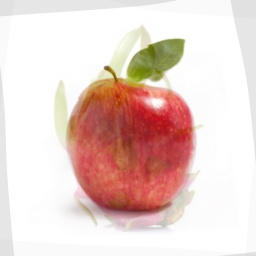
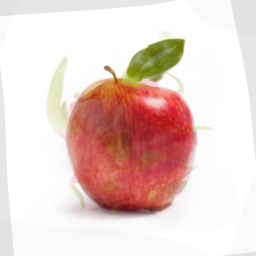
refactoring lines

diff --git a/Morph.py b/Morph.py
@@ -23,9 +23,9 @@ class Morph:
         self.dest_image= Image(img2, d_l)
 
         self.resize()
-        #self.src_image.draw_lines()
-        #self.dest_image.draw_lines()
-        self.morph()
+        self.src_image.draw_lines()
+        self.dest_image.draw_lines()
+        #self.morph()
 
     def process_input_file(self):
         src_lines= []
@@ -65,21 +65,6 @@ class Morph:
             plt.imsave("results/image_step_" + str(i) + ".jpg", im_t)
             self.t+=step
 
-
-        '''
-        plt.axis('off')
-        fig, xs = plt.subplots(1, 3)
-        xs[0].imshow(im1, cmap="gray")
-        xs[0].set_title("Warping source")
-        xs[0].axis('off')
-        xs[1].imshow(im2, cmap="gray")
-        xs[1].set_title("Warping dest")
-        xs[1].axis('off')
-        xs[2].imshow(im_t, cmap="gray")
-        xs[2].set_title("Blending")
-        xs[2].axis('off')
-        plt.show()
-        '''
 
     def warp(self, src_image, dest_image, t):
         t_image= np.zeros_like(src_image.image)

diff --git a/Image.py b/Image.py
@@ -18,6 +18,7 @@ class Image:
         :return: draws reference lines on
         top of the image
         '''
+
         for line in self.lines:
             red = self.image[:, :, 0]
             green = self.image[:, :, 1]
@@ -26,6 +27,7 @@ class Image:
             red[rr,cc]=0
             green[rr,cc]=0
             blue[rr,cc]=255
+        self.image=resize(self.image, (256, 256), anti_aliasing=True)
 
     def resize(self, dim):
         self.image= resize(self.image, (dim, dim), anti_aliasing=True)

diff --git a/main.py b/main.py
@@ -11,14 +11,7 @@ if __name__ == '__main__':
     img1 = io.imread(path_img1)
     img2 = io.imread(path_img2)
     m = Morph(img1, img2, file, N)
+
     m.display()
-    '''
-    img1= resize(img1, (256, 256), anti_aliasing=True)
-    img2= resize(img2, (256, 256), anti_aliasing=True)
-    fig, xs = plt.subplots(1, 2)
-    xs[0].imshow(img1, cmap="gray")
-    xs[1].imshow(img2, cmap="gray")
-    plt.show()
-    #m = Morph(img1, img2, file, N)
-    #m.display()
-    '''
+
+
